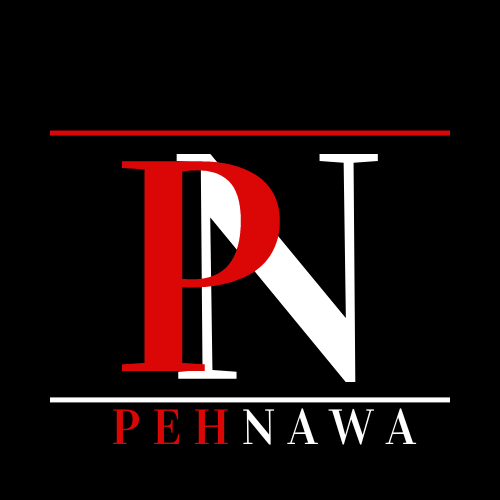
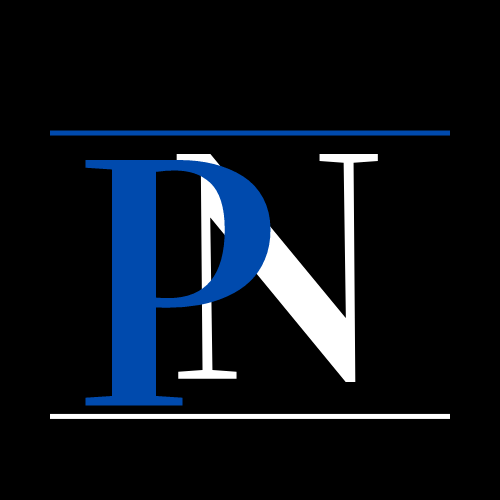
day-6

Changed region(s): [[0.09, 0.3, 0.9, 0.9], [0.09, 0.24, 0.9, 0.27]]

diff --git a/src/pages/Home.jsx b/src/pages/Home.jsx
@@ -3,7 +3,7 @@ import axios from 'axios'
 
 import "react-responsive-carousel/lib/styles/carousel.min.css";
 import "../App.css"
-import { Grid,Heading,Image,HStack} from '@chakra-ui/react'
+import { SimpleGrid,Heading,Image,HStack} from '@chakra-ui/react'
 import Carousel from "../component/Carousel"
 
 
@@ -80,46 +80,46 @@ export default function Home() {
         <div>
           
           <Carousel/>
-            
+       
             <HStack><Heading my={10}>DEAL OF THE DAY</Heading></HStack>
-            <Grid templateColumns='repeat(5, 1fr)' gap={3}>
+            <SimpleGrid  gap={3} columns={{sm:2,md:3,lg:5,base:1}} >
               
               {dod.map((item)=><Image w="105%" h="290px" key={item.id} src={item.url} />)}
-            </Grid>
+            </SimpleGrid>
 
             <HStack><Heading my={10}>BEST OF MYNTRA EXCLUSIVE BRAND</Heading></HStack>
-            <Grid templateColumns='repeat(8, 1fr)'>
+            <SimpleGrid  columns={{sm:2,md:4,lg:8,base:1}} >
               {bom.map((item)=><Image key={item.id} src={item.url} />)}
-            </Grid>
+            </SimpleGrid>
             <HStack>
             <Heading my={10}>TOP PICKS</Heading></HStack>
-            <Grid templateColumns='repeat(7, 1fr)'>
+            <SimpleGrid  columns={{sm:2,md:3,lg:7,base:1}}>
               {top.map((item)=><Image key={item.id} src={item.url} />)}
-            </Grid>
+            </SimpleGrid>
             <HStack><Heading my={10}>CATEGORIES TO BAG</Heading></HStack>
-            <Grid templateColumns='repeat(8, 1fr)'>
+            <SimpleGrid templateColumns='repeat(8, 1fr)' columns={{sm:2,md:4,lg:8,base:1}}>
               {ctg.map((item)=><Image key={item.id} src={item.url} />)}
-            </Grid>
+            </SimpleGrid>
             <HStack><Heading my={10}>DEALS ON TOP BRANDS</Heading></HStack>
-            <Grid templateColumns='repeat(4, 1fr)'>
+            <SimpleGrid  columns={{sm:2,md:2,lg:4,base:1}}>
               {dsla.map((item)=><Image key={item.id} src={item.url} />)}
-            </Grid>
+            </SimpleGrid>
             <HStack><Heading my={10}>BRANDS AT SLASHED PRICES</Heading></HStack>
-            <Grid templateColumns='repeat(4, 1fr)'>
+            <SimpleGrid  columns={{sm:2,md:2,lg:4,base:1}}>
               {dsla.map((item)=><Image key={item.id} src={item.url} />)}
-            </Grid>
+            </SimpleGrid>
             <HStack><Heading my={10}>GIFTING CARDS</Heading></HStack>
-            <Grid templateColumns='repeat(5, 1fr)'>
+            <SimpleGrid  columns={{sm:2,md:2,lg:5,base:1}}>
               {gift.map((item)=><Image key={item.id} src={item.url} />)}
-            </Grid>
+            </SimpleGrid>
             <HStack><Heading my={10}>NEW IN TOP BRANDS</Heading></HStack>
-         <Grid templateColumns='repeat(8, 1fr)'>
+         <SimpleGrid  columns={{sm:2,md:4,lg:8,base:1}}>
               {ntb.map((item)=><Image key={item.id} src={item.url} />)}
-            </Grid>
+            </SimpleGrid>
             <HStack><Heading my={10}>TOP INFLUENCERS EXCLUSIVE STYLES</Heading></HStack>
-            <Grid templateColumns='repeat(6, 1fr)'>
+            <SimpleGrid  columns={{sm:2,md:3,lg:6,base:1}}>
               {ties.map((item)=><Image key={item.id} src={item.url} />)}
-            </Grid>
+            </SimpleGrid>
            
 
 

diff --git a/src/component/Navbar.jsx b/src/component/Navbar.jsx
@@ -20,6 +20,7 @@ import {
     ChevronDownIcon,
     ChevronRightIcon,
   } from '@chakra-ui/icons';
+  import '../App.css';
 import { Link } from 'react-router-dom';
 import { useContext } from 'react';
 import { AuthContext } from '../Context/AuthContext';
@@ -28,7 +29,7 @@ import { AuthContext } from '../Context/AuthContext';
     const { isOpen, onToggle } = useDisclosure();
   
     return (
-      <Box>
+      <Box className='navbar'>
         <Flex
           bg={useColorModeValue('white', 'gray.800')}
           color={useColorModeValue('gray.600', 'white')}
@@ -83,10 +84,10 @@ import { AuthContext } from '../Context/AuthContext';
               fontSize={'sm'}
               fontWeight={600}
               color={'white'}
-              bg={'pink.400'}
+              bg={'blue.400'}
               to={'#'}
               _hover={{
-                bg: 'pink.900',
+                bg: 'blue.900',
               }}>
               Login/Sign Up
             </Button></Link>
@@ -155,12 +156,12 @@ import { AuthContext } from '../Context/AuthContext';
         display={'block'}
         p={2}
         rounded={'md'}
-        _hover={{ bg: useColorModeValue('pink.500', 'gray.900') }}>
+        _hover={{ bg: useColorModeValue('blue.500', 'gray.900') }}>
         <Stack direction={'row'} align={'center'}>
           <Box>
             <Text
               transition={'all .3s ease'}
-              _groupHover={{ color: 'pink.400' }}
+              _groupHover={{ color: 'blue.400' }}
               fontWeight={500}>
               {label}
             </Text>
@@ -174,7 +175,7 @@ import { AuthContext } from '../Context/AuthContext';
             justify={'flex-end'}
             align={'center'}
             flex={1}>
-            <Icon color={'pink.400'} w={5} h={5} as={ChevronRightIcon} />
+            <Icon color={'blue.400'} w={5} h={5} as={ChevronRightIcon} />
           </Flex>
         </Stack>
       </Link>

diff --git a/src/component/ProductCard.jsx b/src/component/ProductCard.jsx
@@ -1,10 +1,14 @@
-import React, { useContext } from 'react'
+import React, { useContext ,useState} from 'react'
 import {Link} from "react-router-dom"
 import {Text,Divider,ButtonGroup,Button,Image, Card, CardHeader,Center, CardBody, CardFooter,Heading,Stack} from '@chakra-ui/react'
 import { AuthContext } from '../Context/AuthContext'
 const ProductCard = ({item}) => {
   const {images,title,description,price,id}=item
   const {handleClick}=useContext(AuthContext)
+  const [change,setChange]=useState(false)
+  const handleChange=(id)=>{
+    setChange(true)
+  }
   return (
     <Card maxW='sm'>
       <Link to={`./${id}`}>
@@ -17,24 +21,37 @@ const ProductCard = ({item}) => {
       margin="auto"
     />
     <Stack mt='6' spacing='3'>
-      <Heading size='md'>{title}</Heading>
+      <Heading color="black.100" size='sm'>{title}</Heading>
       <Text fontSize={12} color="gray.500">
-       {description}
+       {description.substring(0,32)}
       </Text>
       <Text color='blue.600' fontSize='2xl'>
         ₹{price}
       </Text>
     </Stack>
   </CardBody></Link>
-  <Divider />
+  <Divider /> <Center>
   <CardFooter>
     <ButtonGroup spacing='2'>
-      <Center>
-      <Button variant='ghost' colorScheme='blue' onClick={()=>handleClick(item)}>
-        Add to cart
-      </Button></Center>
+     
+      <Button variant='ghost' colorScheme='blue'
+       as={'a'}
+       display={{ base: 'none', md: 'inline-flex' }}
+       fontSize={'sm'}
+       fontWeight={600}
+       color={'white'}
+       bg={'blue.400'}
+       to={'#'}
+       _hover={{
+         bg: 'blue.900',
+       }}
+      onClick={()=>{
+        handleChange(id)
+        handleClick(item)}}>
+        {change?"Already Add to cart":"Add to cart"}
+      </Button>
     </ButtonGroup>
-  </CardFooter>
+  </CardFooter></Center>
 </Card>
   )
 }

diff --git a/src/pages/SingleProductPage.jsx b/src/pages/SingleProductPage.jsx
@@ -5,12 +5,19 @@ import {
     BreadcrumbLink,
     BreadcrumbSeparator,
   } from '@chakra-ui/react'
-import React ,{useEffect,useState}from 'react'
+import React ,{useEffect,useState,useContext}from 'react'
 import { useParams } from 'react-router-dom'
+import {Link} from "react-router-dom"
 import axios from "axios"
+import { AuthContext } from '../Context/AuthContext'
 const SingleProductPage = () => {
  const {id}=useParams()
     const [men,setMen]=useState({})
+    const {handleClick}=useContext(AuthContext)
+    const [change,setChange]=useState(false)
+    const handleChange=(id)=>{
+      setChange(true)
+    }
     const fetchMEN=()=>{
       return axios.get(`http://localhost:8080/men/${id}`).then((res)=>setMen(res.data))
     }
@@ -35,12 +42,12 @@ const SingleProductPage = () => {
          
         </Flex>
         
-         <Box w="50%">
+         <Box w="50%" mx={10}>
             
             <Stack>
               <Heading>{title}</Heading>
-            <Heading>{description}</Heading>  
-            <Button>
+            <Heading size={"md"} color="gray.500">{description}</Heading>  
+            <Button w="100px">
                 
                 <Breadcrumb separator='|'>
   <BreadcrumbItem>
@@ -69,9 +76,25 @@ const SingleProductPage = () => {
   ))}
   
 </HStack>
-              
 
-            </Stack>
+
+            </Stack><Button variant='ghost' colorScheme='blue'
+w="150px"
+       as={'a'}
+       display={{ base: 'none', md: 'inline-flex' }}
+       fontSize={'sm'}
+       fontWeight={600}
+       color={'white'}
+       bg={'blue.400'}
+       to={'#'}
+       _hover={{
+         bg: 'blue.900',
+       }}
+      onClick={()=>{
+        handleChange(id)
+        handleClick(men)}}>
+        {change?"Already Add to cart":"Add to cart"}
+      </Button> 
 
         </Box>
     </Flex>

diff --git a/src/pages/Login.jsx b/src/pages/Login.jsx
@@ -86,8 +86,8 @@ signInWithPhoneNumber(auth, phoneNumber, appVerifier)
   render() {
     return (
       <div className="login-form">
-        <Avatar bg="pink.500"  />
-   <Heading color="pink.400" m={6}>Welcome</Heading>
+        <Avatar bg="blue.500"  />
+   <Heading color="blue.400" m={6}>Welcome</Heading>
         <form onSubmit={this.onSignInSubmit}>
           <div id="sign-in-button"></div>
           <h2 className="otp">Enter Mobile Number</h2>
@@ -95,7 +95,7 @@ signInWithPhoneNumber(auth, phoneNumber, appVerifier)
           <Button type="submit"
            borderRadius={0}
                         variant="solid"
-                        colorScheme="pink"
+                        colorScheme="blue"
                         width="60px"
           >Verify</Button>
         </form>
@@ -106,7 +106,7 @@ signInWithPhoneNumber(auth, phoneNumber, appVerifier)
           <Button type="submit"
           borderRadius={0}
           variant="solid"
-          colorScheme="pink"
+          colorScheme="blue"
           width="60px"
           >Submit</Button>
         </form>

diff --git a/src/App.css b/src/App.css
@@ -68,7 +68,7 @@ background: -webkit-linear-gradient(45deg, #ee7752, #e73c7e, #23a6d5 80%);
 
 .cart span:nth-child(2) {
   padding: 0 3px;
-  background-color: #e73c7e;
+  background-color: rgba(10, 92, 214, 0.699);
   color: white;
   font-weight: bolx;
   border-radius: 5px;
@@ -79,7 +79,7 @@ background: -webkit-linear-gradient(45deg, #ee7752, #e73c7e, #23a6d5 80%);
 
 .cart  span:nth-child(1) {
   font-size: 2rem;
-  color:#e73c7e;
+  color:rgba(10, 92, 214, 0.699);
 }
 .login-form{
   margin:100px;

diff --git a/src/pages/Address.jsx b/src/pages/Address.jsx
@@ -63,7 +63,7 @@ const Checkout = () => {
       };
       
       setFormData(AddressDetail);
-
+      setCart(0)
       toast({
         size: "700",
         position: "top-center",
@@ -96,7 +96,7 @@ const Checkout = () => {
         <Text textAlign={"start"}>Home » Checkout</Text>
       </Box>
       <Box>
-        <Heading size={"lg"}  color="#e17055">
+        <Heading size={"lg"}  color="blue">
           Checkout
         </Heading>
       </Box>

diff --git a/src/pages/Bag.css b/src/pages/Bag.css
@@ -65,13 +65,13 @@
   
   .total span:nth-child(1) {
     font-size: 2rem;
-    color: pink;
+    color: rgb(17, 17, 212);
     font-weight: bold;
     letter-spacing: 2px;
   }
   
   .total span:nth-child(2) {
     font-size: 2rem;
-    color: rgb(204, 12, 178);
+    color: rgb(17, 63, 216);
     font-weight: bold;
   }

diff --git a/src/pages/Bag.jsx b/src/pages/Bag.jsx
@@ -69,7 +69,7 @@ const  Bag= () => {
       </div>
     <Link to="/address">   <Button  borderRadius={5}
                         variant="solid"
-                        colorScheme="pink"
+                        colorScheme="blue"
                         width="80px" >CheckOut</Button></Link>
     
     </article>

diff --git a/src/component/Carousel.jsx b/src/component/Carousel.jsx
@@ -13,7 +13,7 @@ const settings = {
   infinite: true,
   autoplay: true,
   speed: 500,
-  autoplaySpeed: 1000,
+  autoplaySpeed: 5000,
   slidesToShow: 1,
   slidesToScroll: 1,
 };

diff --git a/README.md b/README.md
@@ -1,1 +1,30 @@
 # united-cobweb-7806
+
+pehnawa website is a clone of myntra E-commerce website .
+its is a one stop shop for all your fashion and life styless need. And its aim at providing a enjoyable shopping experience to shoppers across the country with wide range of brand and products at its portal.
+
+***
+## Tech Stack
+* React
+*javascript 
+*html
+*CSS
+
+## Features
+* Signin/Login 
+* Fetch product
+* Browse Products based on section
+* Create ,Update ,Remove products From cart
+* View Orders
+* Filters on the basis of Brand
+* Sorting on the basis of price.
+
+## Landing page
+![homePage](/images/home.png)
+![DropDownMenu](/images/Dropdownmenu.png)
+![ProductSection](/images/productsection.png)
+![SingleProductPage](/images/singlepage.png)
+![cart](/images/cart.png)
+![checkout](/images/checkout.png)
+![checkout](/images/checkout-2.png)
+![Signup/Login](/images/signin.png)
